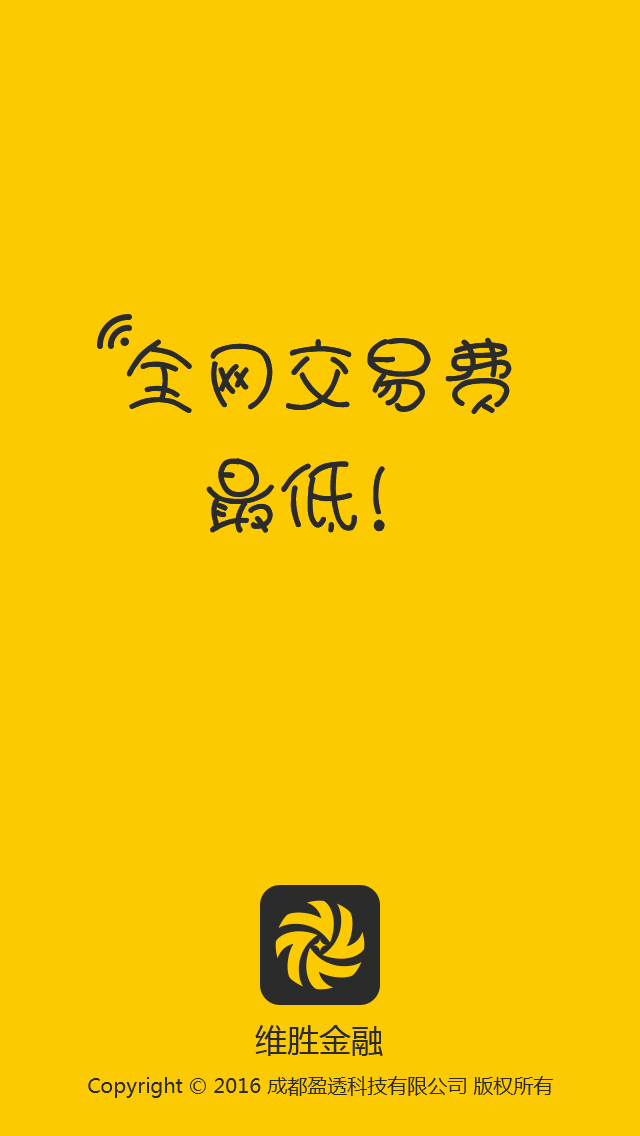
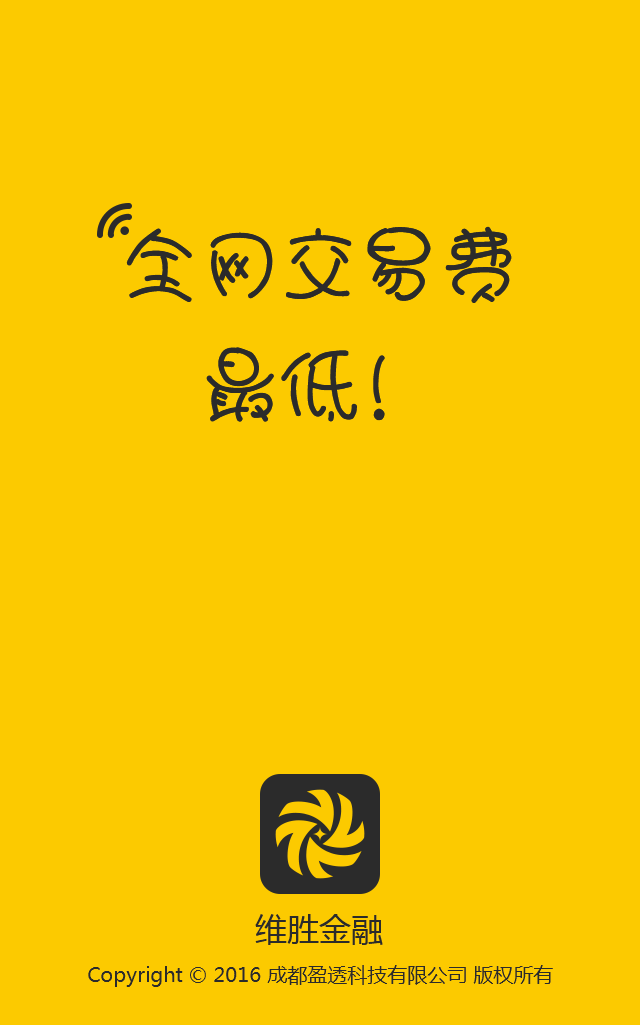
修改bug

Changed region(s): [[0.1562, 0.1873, 0.8125, 0.4683], [0.125, 0.7493, 0.875, 0.9678]]

diff --git a/tzdr-app-web/tzdr/quotation/transactionDetails.html b/tzdr-app-web/tzdr/quotation/transactionDetails.html
@@ -26,6 +26,9 @@
 				background-size: cover;
 				display: none;
 			}
+			/*.buttomFix{
+				position: fixed;
+			}*/
 		</style>
 	</head>
 	<body style="background-color: #2B2B2B"> 
@@ -35,10 +38,10 @@
 		    <a class="whiteFont" id="switchAccount">切换账号</a>
 		</header>
 		<div class="mui-content" style="padding-top: 86px;" >
-				<div id="headerMenu">
+				<div id="headerMenu" style="background-color: #2B2B2B;">
 					<button id="tradeMenu">交易中心</button>
 					<button id="timeChartMenu" value="0">分时</button>
-					<button>
+					<button id="selectButon">
 						<select id="selectType" style="text-align: center;">
 							<option value="1">1分</option>
 							<option value="5">5分</option>
@@ -178,7 +181,8 @@
 		    			var Proportion=1;
 						var resolutionWidth=plus.screen.resolutionWidth;
 						Proportion=resolutionWidth/320;
-						console.log(Proportion);
+						var width=resolutionWidth;
+						alert(width);
 						$("#numberInput").css({
 							"padding":Proportion*10+"px",
 							"font-size":Proportion*12+"px",
@@ -201,10 +205,15 @@
 							"height":Proportion*50+"px",
 							"line-height":Proportion*50+"px",
 							"font-size":Proportion*16+"px",
-							
 						});
 						$("#headerMenu").css({
-							"padding":Proportion*5+"px "+Proportion*10+"px "
+							"padding":Proportion*5+"px "+Proportion*10+"px ",
+							"background-color":"#2B2B2B",
+							"width":"100%",
+							"height":Proportion*35+"px",
+							"position":"fixed",
+							"top":"46px",
+							"z-index":"990"
 						})
 						$("#headerMenu button").css({
 							"height":Proportion*30+"px",
@@ -212,10 +221,14 @@
 							"font-size":Proportion*14+"px",
 							"width":Proportion*75+"px",
 						});
-						$("#timeChartMenu").css({
-							"margin":"0px "+Proportion*33+"px",
-							
-						});
+						$("#tradeMenu").css({
+							"position":"absolute",
+							"left":Proportion*10+"px "
+						})
+						$("#selectButon").css({
+							"position":"absolute",
+							"right":Proportion*10+"px "
+						})
 						$("#selectType").css({
 							"height":Proportion*30+"px",
 							"line-height":Proportion*30+"px",
@@ -226,11 +239,11 @@
 						});
 						$("#timeChart,#CandlestickChartDiv").css({
 							"width":"100%",
-							"height":Proportion*116+"px",
+							"height":Proportion*163+"px",
 						});
 						$("#volumeChart,#CandlestickVolumeChart").css({
 							"width":"100%",
-							"height":Proportion*107+"px",
+							"height":Proportion*145+"px",
 						});
 						$("#closeTrade").css({
 							"width":Proportion*17+"px",
@@ -246,7 +259,34 @@
 							"top":Proportion*11+"px",
 							"right":Proportion*10+"px",
 						});
-					}
+						if(width==320){
+							$("#timeChart,#CandlestickChartDiv").css({
+								"width":"100%",
+								"height":Proportion*150+"px",
+							});
+							$("#volumeChart,#CandlestickVolumeChart").css({
+								"width":"100%",
+								"height":Proportion*118+"px",
+							});
+						}else if(width==375){
+							$("#timeChart,#CandlestickChartDiv").css({
+								"width":"100%",
+								"height":Proportion*165+"px",
+							});
+							$("#volumeChart,#CandlestickVolumeChart").css({
+								"width":"100%",
+								"height":Proportion*128+"px",
+							});
+						}else if(width==414){
+							$("#timeChart,#CandlestickChartDiv").css({
+								"width":"100%",
+								"height":Proportion*175+"px",
+							});
+							$("#volumeChart,#CandlestickVolumeChart").css({
+								"width":"100%",
+								"height":Proportion*135+"px",
+							});
+						}
     			
     				/*
 					 增加新手引导的样式
@@ -254,11 +294,10 @@
 					/*
 					 增加新手引导的样式
 					 */
-//					if(plus.storage.getItem("QuotationGuidanceTrade")==null){
-//						plus.storage.setItem("QuotationGuidanceTrade","1");
-//						bindGuidance();
-//						console.log(plus.storage.getItem("QuotationGuidance"));
-//					}
+					if(plus.storage.getItem("QuotationGuidanceTrade")==null){
+						plus.storage.setItem("QuotationGuidanceTrade","1");
+						bindGuidance();
+					}
 					bindGuidance();
 					function bindGuidance(){
 					var Proportion=1;
@@ -272,7 +311,9 @@
 							"top":"0px"
 						});
 						$("#guidance").css({
-							"display":"none"
+							"display":"none",
+							"position":"fixed",
+							"z-index":"999",
 						});
 						$(".bottom").css({
 							"width":"100%",
@@ -295,7 +336,6 @@
 			    			"display":"none",
 			    		});
 			    		numL++;
-			    		
 					});
 					$("#closeTrade1").click(function(){
 						$(".top,.bottom").css({
@@ -345,10 +385,6 @@
 								"background-repeat":"no-repeat",
 								
 							});
-							console.log("4544545")
-//							$("#closeTrade").css({
-//								"left":Proportion*100+"px",
-//							});
 							
 						}else if(num==4){
 							if(numL!=4)
@@ -379,19 +415,15 @@
 								"background-size":"cover",
 								"bottom":"0px"
 							});
-//							$("#closeTrade1").css({
-//								"top":15+"px",
-//							})
 							$("#littleDiv").css({
-								"position":"absolute",
+								"position":"fixed",
 								"top":"46px",
 								"left":"0px",
 								"width":Proportion*120+"px",
-								"height":Proportion*42+"px",
+								"height":Proportion*70+"px",
 								"background-color":"rgba(0,0,0,0.8)",
 								"z-index":"999",
 							});
-							
 						}
 						}else if(num==1){
 							if(numL==1){
@@ -415,7 +447,7 @@
 					});
 				
 				}
-					
+				}	
 				})
 			</script>
 		<script type="text/javascript" src="../../js/common.config.js" ></script> 

diff --git a/tzdr-app-web/start.html b/tzdr-app-web/start.html
@@ -10,26 +10,32 @@
 	    <link rel="stylesheet" type="text/css" href="css/own.css"/>
 	    <script src="js/jquery-1.11.3.js"></script>
 	    <style>
-	    	body{
-	    		;
-	    		background-repeat:no-repeat;
-	  			background-size: cover;
-	    	}
+	    	/*body{
+	    		padding:0px;
+	    		margin: 0px;
+	    		background-image: url(images/startPage.png) ;
+	    		background-repeat: no-repeat;
+	    		background-size: 100% 100%;
+	    	}*/
 	    </style>
 	</head>
-	<body>
+	<body style="background-color: #fcca00;">
+		<img src="images/startPage.png" style="width: 100%;">
 		<script>
-			mui.plusReady(function(){
-				//状态栏设置
-				setTimeout(function(){
-					$("body").css({
+		$("img").css({
 						"width":window.innerWidth+"px ",
-						"height":window.innerHeight+"px",
-						"background": "url('images/startPage.png') 100% 100% no-repeat",
+						"height":window.innerHeight-40+"px",
 					
-				})
-				},100)
-				
+				});
+			mui.plusReady(function(){
+//				$("img").css({
+//						"width":window.innerWidth+"px ",
+//						"height":window.innerHeight+"px",
+//					
+//				});
+				//状态栏设置
+				//Android双击home键退出应用
+    		var first = null;
 				setstatus();
 				function setstatus(){
 					if(plus.navigator.isFullscreen()){
@@ -48,12 +54,12 @@
 					})
 				},1500);
 			 	}else{
-			 		setTimeout(function(){
-						mui.openWindow({
-							id:"tzdr/quotation/quotationMain.html",
-							url:"tzdr/quotation/quotationMain.html"
-						})
-					},1500)
+//			 		setTimeout(function(){
+//						mui.openWindow({
+//							id:"tzdr/quotation/quotationMain.html",
+//							url:"tzdr/quotation/quotationMain.html"
+//						})
+//					},1500)
 	            };
 	            //Android双击home键退出应用
 				mui.back = function(){

diff --git a/tzdr-app-web/tzdr/login/operateLogin.html b/tzdr-app-web/tzdr/login/operateLogin.html
@@ -172,6 +172,7 @@
 				function bindGuidance(){
 					loadCss();
 					var Proportion=1;
+					var width=plus.screen.resolutionWidth;
 					var height=window.innerHeight;
 						$("#guidance").css({
 							"height":height+"px",
@@ -201,9 +202,6 @@
 					});
 					var num=0;
 					$("#guidance").click(function(){
-//							$("#closeTrade").css({
-//							})
-//						}else if(num==1){
 							if(numL==1){
 							}else{
 							$(".top").css({
@@ -226,6 +224,28 @@
 									"z-index":"999",
 									"bottom":"0px"
 								});
+								if(width==320){
+									$(".top").css({
+										"height":height*0.47+"px",
+									});
+									$(".bottom").css({
+										"height":height*0.46+"px",
+									})
+								}else if(width==375){
+									$(".top").css({
+										"height":height*0.45+"px",
+									});
+									$(".bottom").css({
+										"height":height*0.48+"px",
+									})
+								}else if(width==414){
+									$(".top").css({
+										"height":height*0.48+"px",
+									});
+									$(".bottom").css({
+										"height":height*0.45+"px",
+									})
+								}
 								return
 							}
 //						}

diff --git a/tzdr-app-web/main.html b/tzdr-app-web/main.html
@@ -25,8 +25,7 @@
                 	})
 			 }
     	mui.init();
-    	//Android双击home键退出应用
-    	var first = null;
+    	
     	//当前应用版本号
 	  	var wgtVer=null;
 		mui.plusReady(function(){

diff --git a/tzdr-app-web/css/quotation.css b/tzdr-app-web/css/quotation.css
@@ -694,8 +694,6 @@ input{
 	display: inline-block;
 	background-color: #fcc900;
 	border-radius: 50%;
-	margin-left:1.5px;
-	margin-top:1.5px;
 	
 }
 #forgetPassword{
